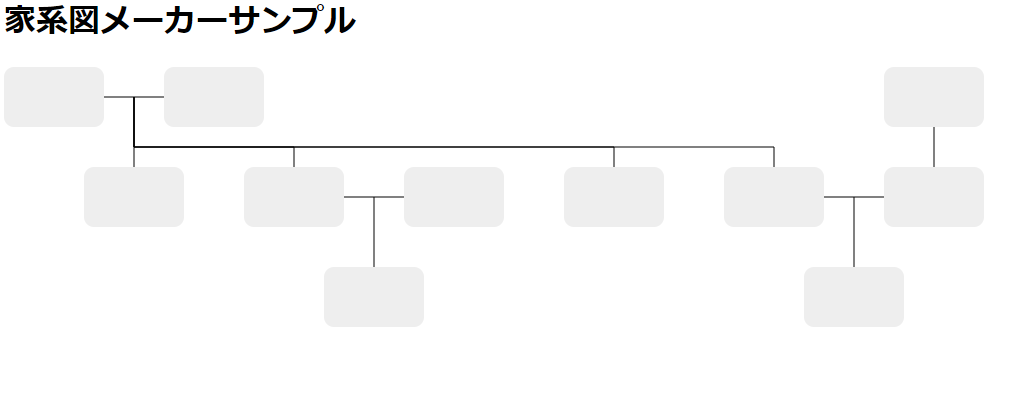
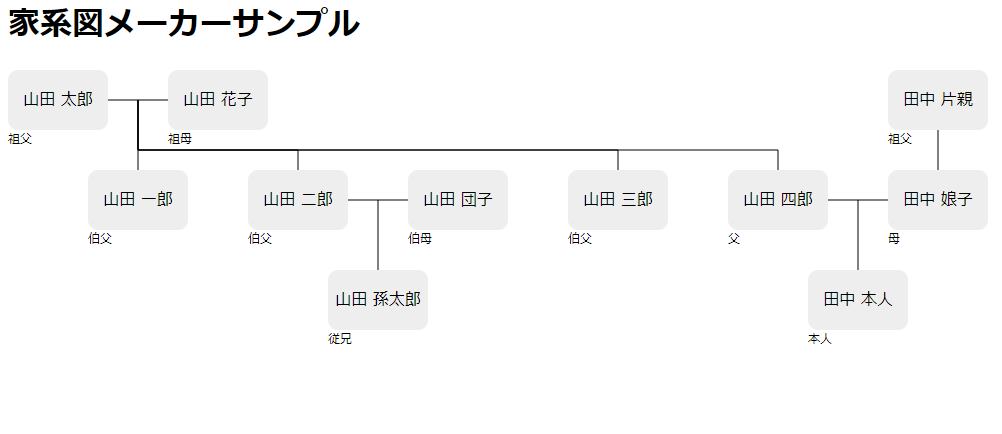
サンプル更新

diff --git a/README.md b/README.md
@@ -4,6 +4,8 @@
   * row: 何段目
   * column: 何列目
     - 1段目は0,2,4　2段目は1,3,5と指定すると綺麗に入るようにした。
+  * name: 名前
+  * message: 関係性などの文字を表示
 * marriage: 結婚線、2人のpersonのcolumnを指定する。
 * child: 子供線、親の間のcolumn（親が2と4なら3を入れる）と子のcolumnを入れる。
 * child_single_person: 片親のみの子供線
